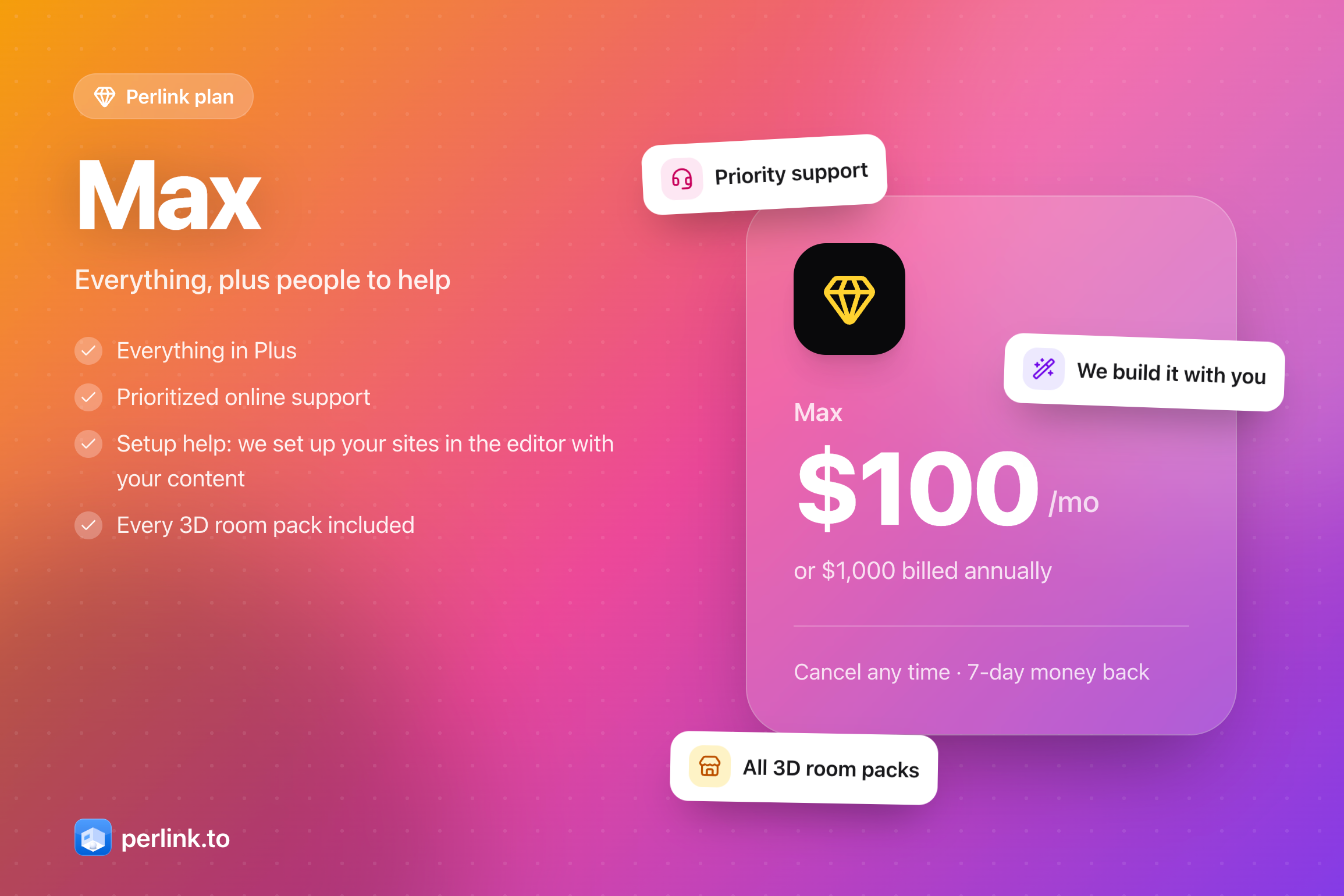
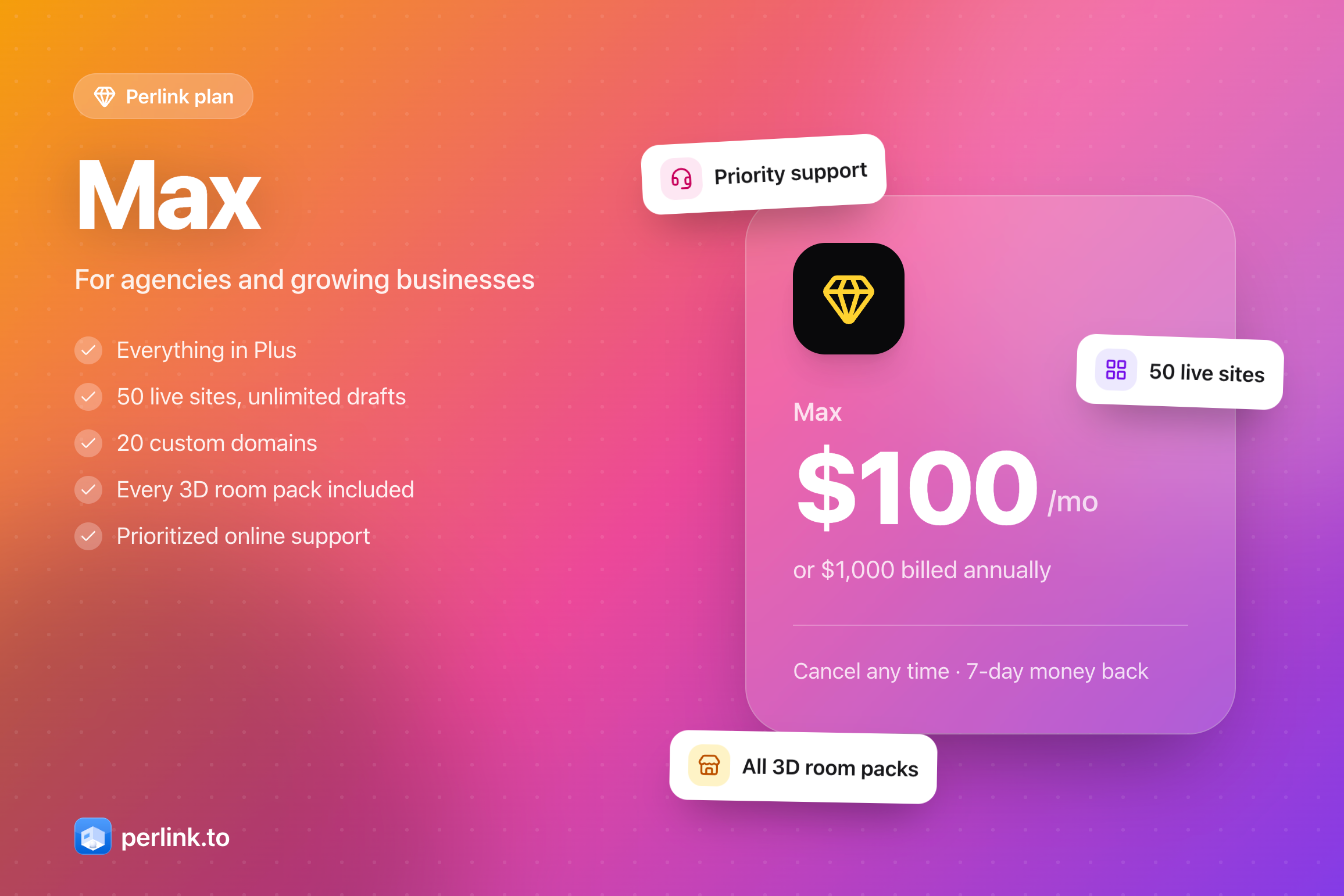
Max plan: no setup-help service (Lemon Squeezy doesn't allow selling services); lists 50 live sites, 20 custom domains and every 3D room pack instead; terms, plan cover and Lemon product updated
Claude-Session: https://claude.ai/code/session_01A3qzCBm5vZ5JYwSTr8oHPp

diff --git a/app/data/legal/terms.ts b/app/data/legal/terms.ts
@@ -32,7 +32,7 @@ export const TERMS: LegalDocs = {
             'Links and QR codes made with earlier versions of the Service, which keep working',
           ] },
           'Perlink is self-serve software: you build and edit your site yourself. We do not sell design, development or other custom services.',
-          'The Max plan includes priority online support and setup help: on request, our team helps put your own content into your sites using Perlink’s templates and editor. Setup help is support for using the software, within reason (about two requests a month); it does not include custom design, custom code or work outside Perlink.',
+          'The Max plan includes every premium 3D room pack and priority online support: questions about using Perlink are answered first. Support is help with the software; it does not include design, building sites or other work done for you.',
           'Perlink only sells its own software plans. If you show products, menus, bookings or payment details on your site, any sale between you and your visitors happens directly between you and them: Perlink is not a party to it, does not process those payments and does not sell on your behalf.',
         ],
       },
@@ -183,7 +183,7 @@ export const TERMS: LegalDocs = {
             'Link rút gọn và mã QR tạo từ phiên bản cũ, vẫn tiếp tục hoạt động',
           ] },
           'Perlink là phần mềm tự phục vụ: bạn tự tạo và chỉnh sửa trang. Chúng tôi không bán dịch vụ thiết kế, lập trình hay dịch vụ làm theo yêu cầu.',
-          'Gói Max có hỗ trợ trực tuyến ưu tiên và hỗ trợ dựng trang: khi bạn yêu cầu, đội ngũ của chúng tôi giúp đưa nội dung của bạn vào trang bằng mẫu và trình chỉnh sửa của Perlink. Hỗ trợ dựng trang là hỗ trợ sử dụng phần mềm, trong mức hợp lý (khoảng hai yêu cầu mỗi tháng); không gồm thiết kế riêng, viết code riêng hay công việc ngoài Perlink.',
+          'Gói Max có sẵn mọi gói món 3D cao cấp và hỗ trợ trực tuyến ưu tiên: câu hỏi về cách dùng Perlink được trả lời trước. Hỗ trợ là hướng dẫn dùng phần mềm; không gồm thiết kế, dựng trang hay công việc làm thay bạn.',
           'Perlink chỉ bán các gói phần mềm của mình. Nếu trang của bạn có sản phẩm, thực đơn, đặt chỗ hay thông tin thanh toán, mọi giao dịch giữa bạn và khách của bạn diễn ra trực tiếp giữa hai bên: Perlink không tham gia, không xử lý các khoản thanh toán đó và không bán hàng thay bạn.',
         ],
       },

diff --git a/app/pages/plan-cover.vue b/app/pages/plan-cover.vue
@@ -85,11 +85,11 @@ const LOOKS: Record<PaidPlanId, { name: string; tagline: string; icon: string; c
     ],
   },
   max: {
-    name: 'Max', tagline: 'Everything, plus people to help', icon: 'i-lucide-gem',
+    name: 'Max', tagline: 'For agencies and growing businesses', icon: 'i-lucide-gem',
     colors: ['#f59e0b', '#ec4899', '#7c3aed'], badge: 'bg-zinc-950 text-amber-300',
     perks: [
       { icon: 'i-lucide-headset', text: 'Priority support', tone: 'bg-pink-100 text-pink-700' },
-      { icon: 'i-lucide-wand-sparkles', text: 'We build it with you', tone: 'bg-violet-100 text-violet-700' },
+      { icon: 'i-lucide-layout-grid', text: '50 live sites', tone: 'bg-violet-100 text-violet-700' },
       { icon: 'i-lucide-store', text: 'All 3D room packs', tone: 'bg-amber-100 text-amber-700' },
     ],
   },
@@ -106,7 +106,7 @@ const prices = PLAN_PRICES_USD[id]
 const en = (key: string, params: Record<string, unknown> = {}, n?: number) => (n === undefined ? t(key, params, { locale: 'en' }) : t(key, params, { locale: 'en', plural: n }))
 const features = computed(() => {
   const list = planFeatures(id, en)
-  return id === 'max' ? [...list, 'Every 3D room pack included'] : list.slice(0, 8)
+  return list.slice(0, 8)
 })
 </script>
 

diff --git a/shared/plans.ts b/shared/plans.ts
@@ -38,8 +38,8 @@ export const PLAN_LIMITS: Record<PlanId, PlanLimits> = {
   free: { sites: 1, customDomain: false, domains: 0, proThemes: false, removeBranding: false, analyticsDays: 30, posts: 50, tracking: false, protect: false, orders: false, cleanVideo: false },
   starter: { sites: 3, customDomain: false, domains: 0, proThemes: true, removeBranding: false, analyticsDays: 90, posts: 100, tracking: true, protect: true, orders: true, cleanVideo: true },
   plus: { sites: 10, customDomain: true, domains: 3, proThemes: true, removeBranding: true, analyticsDays: 365, posts: Infinity, tracking: true, protect: true, orders: true, cleanVideo: true },
-  // Max: room for agencies and chains (not listed on the pricing page), plus
-  // priority support and setup help (planFeatures)
+  // Max: room for agencies and chains, every 3D room pack and priority
+  // support (planFeatures)
   max: { sites: 50, customDomain: true, domains: 20, proThemes: true, removeBranding: true, analyticsDays: 1095, posts: Infinity, tracking: true, protect: true, orders: true, cleanVideo: true },
 }
 

diff --git a/app/utils/planFeatures.ts b/app/utils/planFeatures.ts
@@ -7,8 +7,16 @@ type Translate = (...args: any[]) => string
 export function planFeatures(plan: PlanId, t: Translate) {
   const limits = PLAN_LIMITS[plan]
   const f = (key: string, params: Record<string, unknown> = {}, n?: number) => (n === undefined ? t(`dashboard.billing.features.${key}`, params) : t(`dashboard.billing.features.${key}`, params, n))
-  // Max: what Plus has, and people to help (its larger limits aren't listed)
-  if (plan === 'max') return [f('everythingPlus'), f('support'), f('setupHelp')]
+  // Max: what Plus has, room for many sites, every 3D pack and priority support
+  if (plan === 'max') {
+    return [
+      f('everythingPlus'),
+      f('sites', { n: limits.sites }, limits.sites),
+      ...(CUSTOM_DOMAINS_LIVE ? [f('customDomains', { n: limits.domains }, limits.domains)] : []),
+      f('allPacks'),
+      f('support'),
+    ]
+  }
   const list = [
     f('sites', { n: limits.sites }, limits.sites),
     f('basics'),

diff --git a/app/utils/legal.ts b/app/utils/legal.ts
@@ -2,7 +2,7 @@ import type { LegalLang } from '~/data/legal/types'
 
 // Shown on the legal pages (terms, privacy, refunds, report)
 export const SUPPORT_EMAIL = 'support@perlink.to'
-export const LEGAL_UPDATED_ISO = '2026-10-27'
+export const LEGAL_UPDATED_ISO = '2026-11-04'
 
 /** Legal pages follow the visitor's language (Vietnamese or English) */
 export function useLegalLang() {

diff --git a/app/composables/usePlans.ts b/app/composables/usePlans.ts
@@ -62,8 +62,9 @@ export const PLANS = {
     description: 'For agencies and growing businesses',
     features: [
       'Everything in Plus',
+      '50 live sites and 20 custom domains',
+      'Every 3D room pack included',
       'Priority online support',
-      'Setup help',
     ],
   },
 } as const
